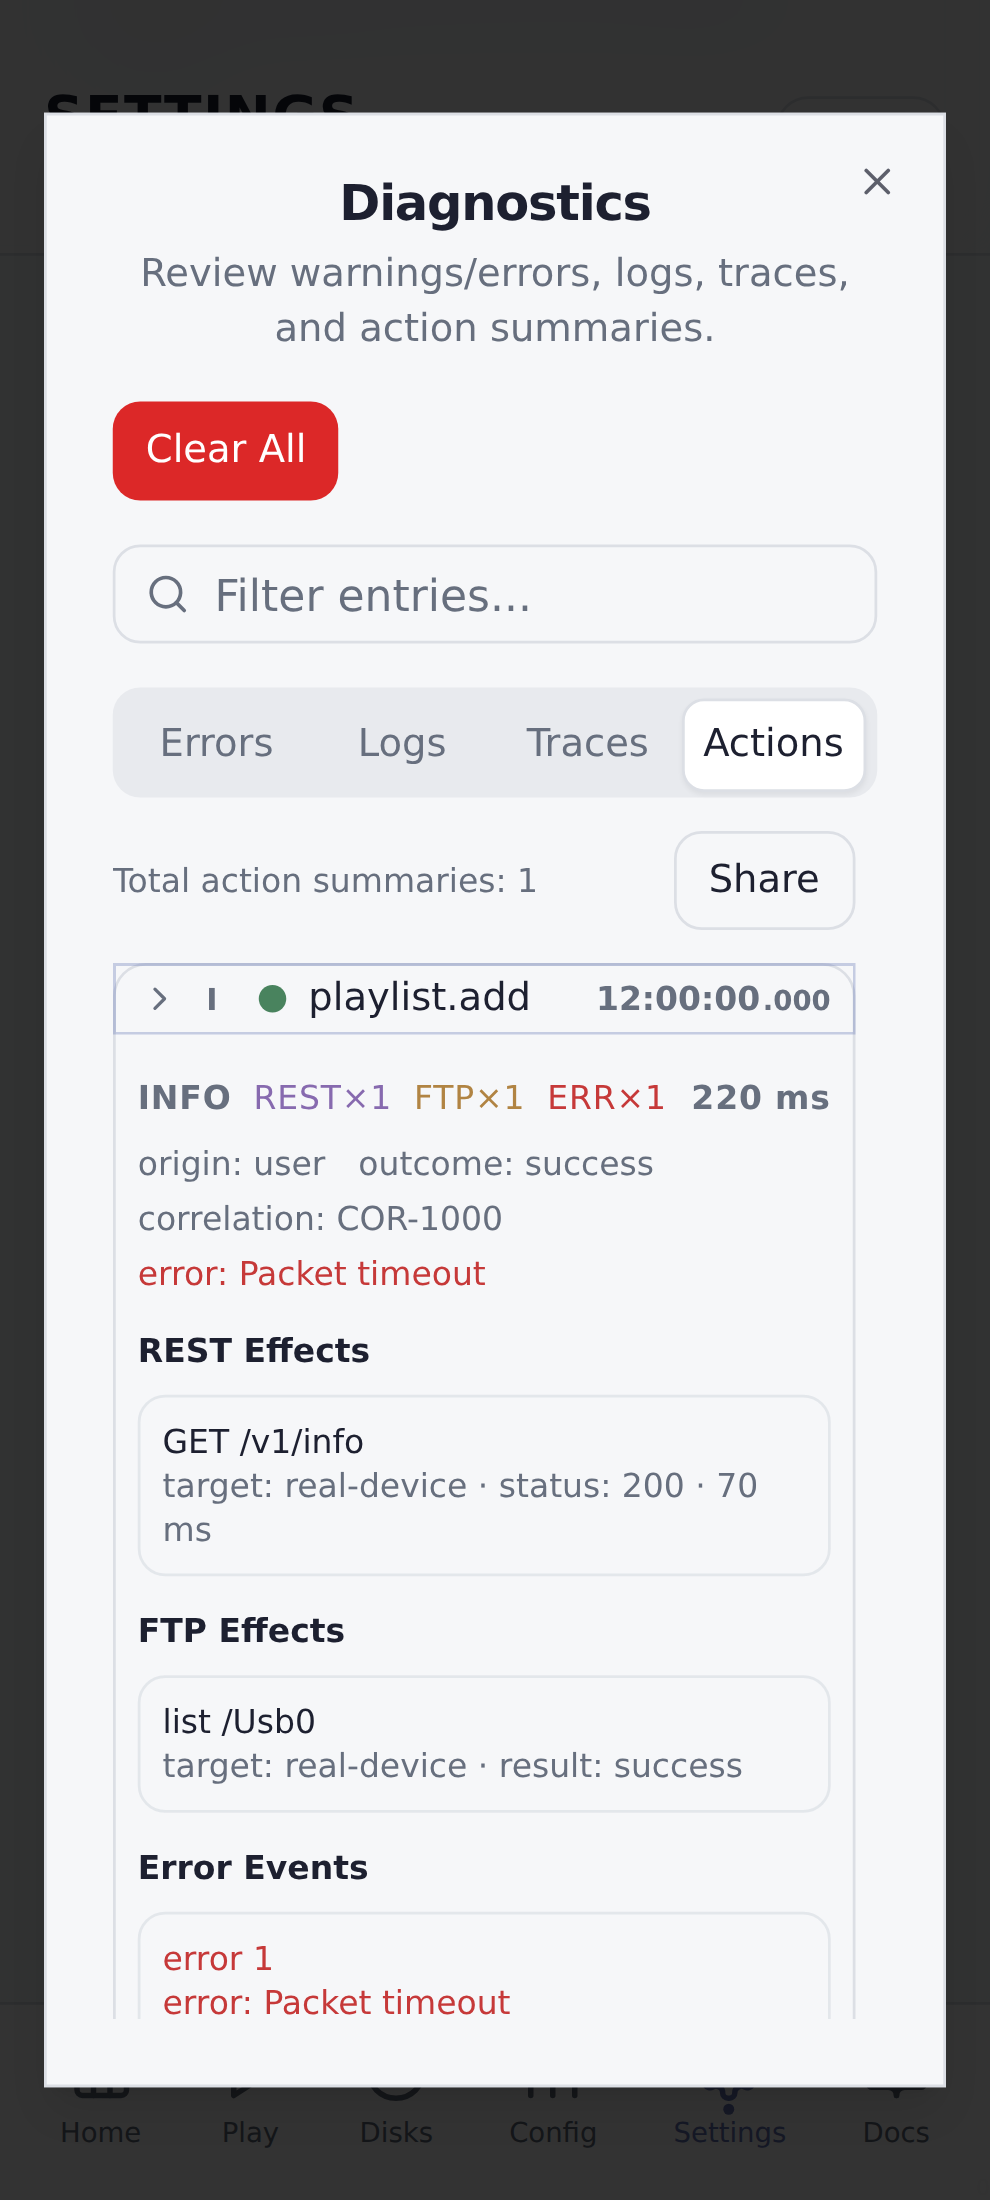
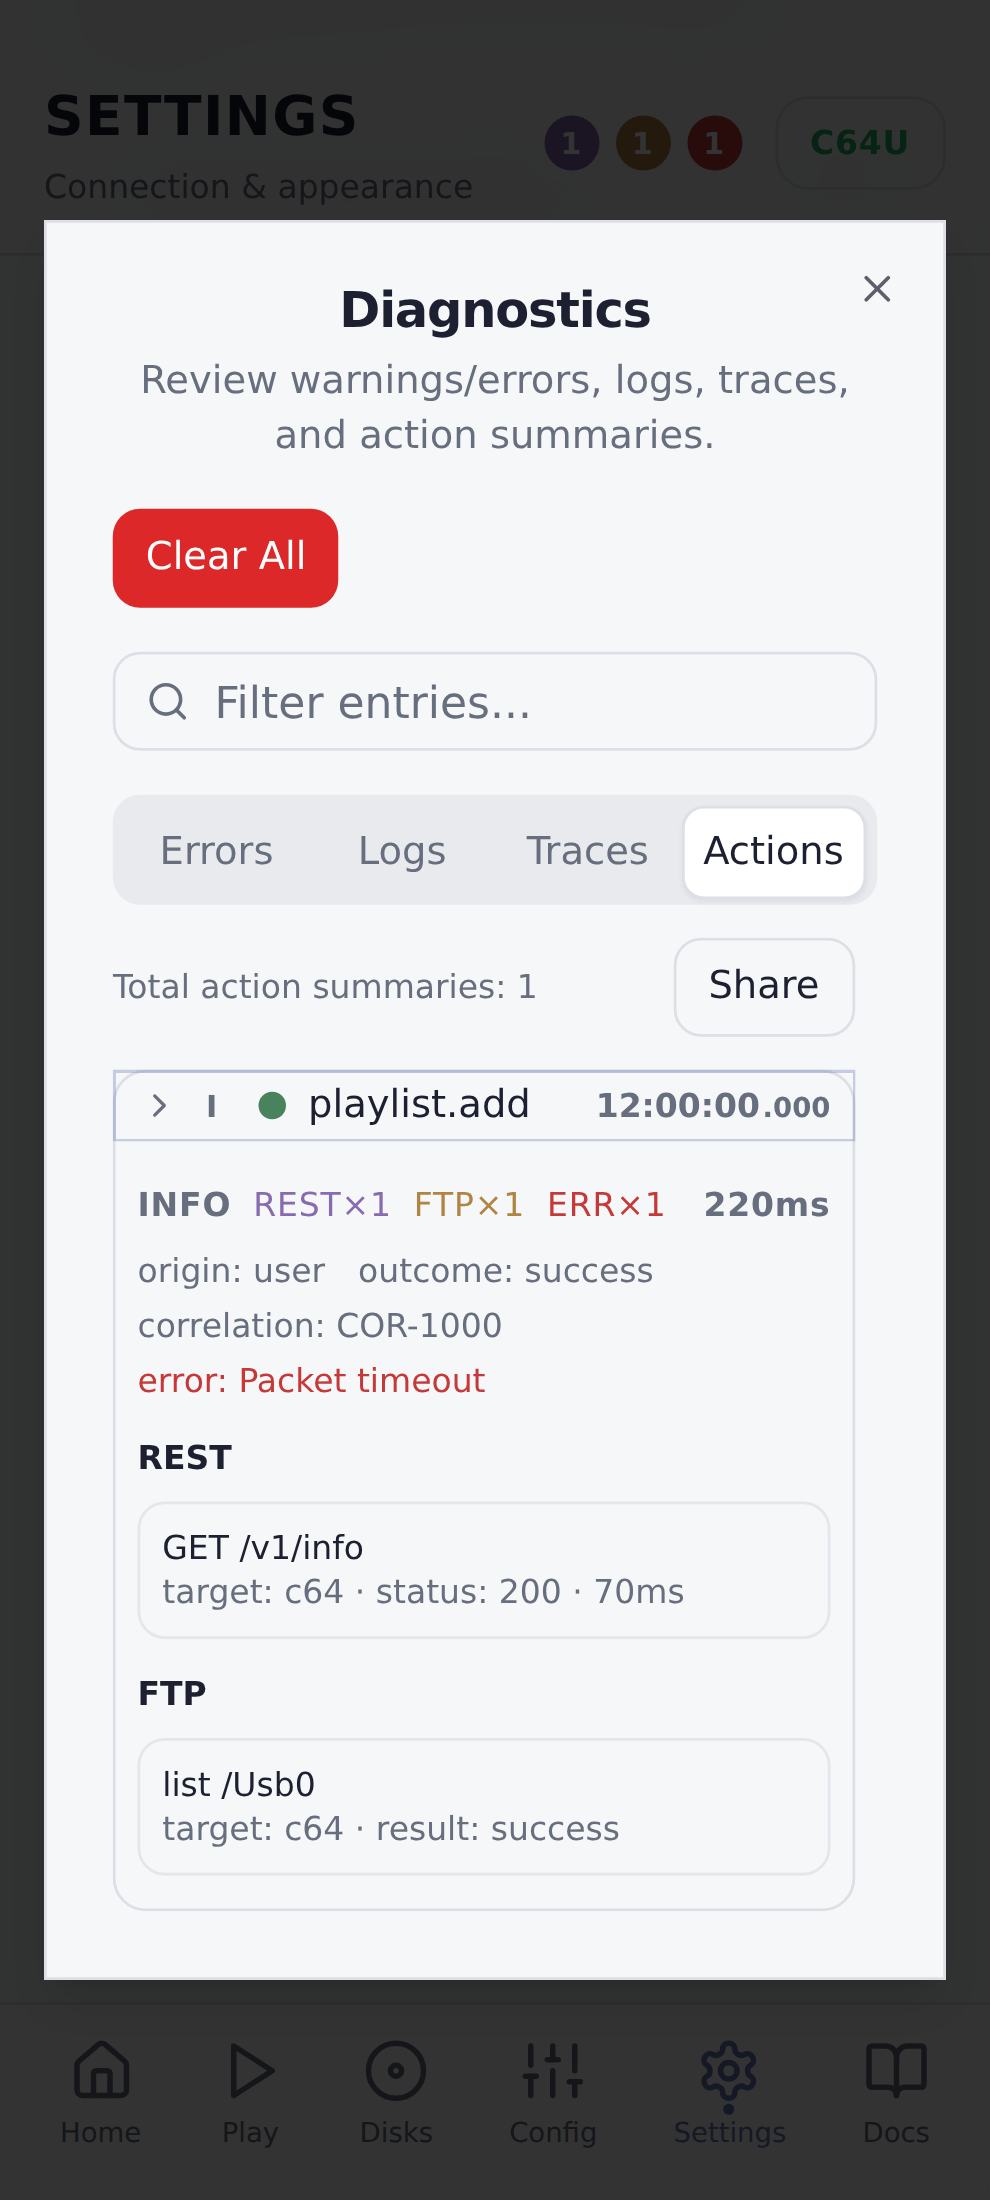
Render diagnostics targets as product-based device labels

diff --git a/tests/unit/diagnostics/actionSummaryDisplay.test.ts b/tests/unit/diagnostics/actionSummaryDisplay.test.ts
@@ -42,9 +42,13 @@ describe('formatActionEffectTarget', () => {
 
   it('maps real-device using transformed /v1/info product values', () => {
     expect(formatActionEffectTarget('real-device', 'c64u')).toBe('c64u');
+    expect(formatActionEffectTarget('real-device', 'C64U')).toBe('c64u');
     expect(formatActionEffectTarget('real-device', 'u64')).toBe('u64');
+    expect(formatActionEffectTarget('real-device', 'U64')).toBe('u64');
     expect(formatActionEffectTarget('real-device', 'u64e')).toBe('u64e');
+    expect(formatActionEffectTarget('real-device', 'U64E')).toBe('u64e');
     expect(formatActionEffectTarget('real-device', 'u64e2')).toBe('u64e2');
+    expect(formatActionEffectTarget('real-device', 'U64E2')).toBe('u64e2');
     expect(formatActionEffectTarget('real-device', 'C64 Ultimate')).toBe('c64u');
     expect(formatActionEffectTarget('real-device', 'unknown-model')).toBe('c64');
   });

diff --git a/src/lib/diagnostics/actionSummaries.ts b/src/lib/diagnostics/actionSummaries.ts
@@ -185,7 +185,10 @@ const resolveRestEffects = (events: TraceEvent[], actionEnd: TraceEvent | undefi
       const error = readString(responseData.error) ?? (responseData.error ? String(responseData.error) : null);
       const method = readString(requestData.method) ?? 'UNKNOWN';
       const path = readString(requestData.normalizedUrl) ?? readString(requestData.url) ?? 'unknown';
-      const responseBody = (responseData.body && typeof responseData.body === 'object') ? (responseData.body as Record<string, unknown>) : null;
+      const responseBody =
+        (responseData.body && typeof responseData.body === 'object' && !Array.isArray(responseData.body))
+          ? (responseData.body as Record<string, unknown>)
+          : null;
       const product = readString(responseBody?.product);
       const hasResponseStatus = 'status' in responseData;
       const responseStatus = hasResponseStatus

diff --git a/src/lib/diagnostics/actionSummaryDisplay.ts b/src/lib/diagnostics/actionSummaryDisplay.ts
@@ -27,6 +27,7 @@ export const formatActionEffectTarget = (target?: string | null, product?: strin
   const raw = (target ?? 'unknown').toLowerCase();
   if (raw === 'internal-mock' || raw === 'external-mock' || raw === 'mock') return 'mock';
   if (raw === 'real-device') return normalizeRealDeviceProduct(product);
+  // Defensive pass-through when traces already provide transformed product-like targets.
   if (raw === 'c64u' || raw === 'u64' || raw === 'u64e' || raw === 'u64e2' || raw === 'c64') return raw;
   return raw;
 };
